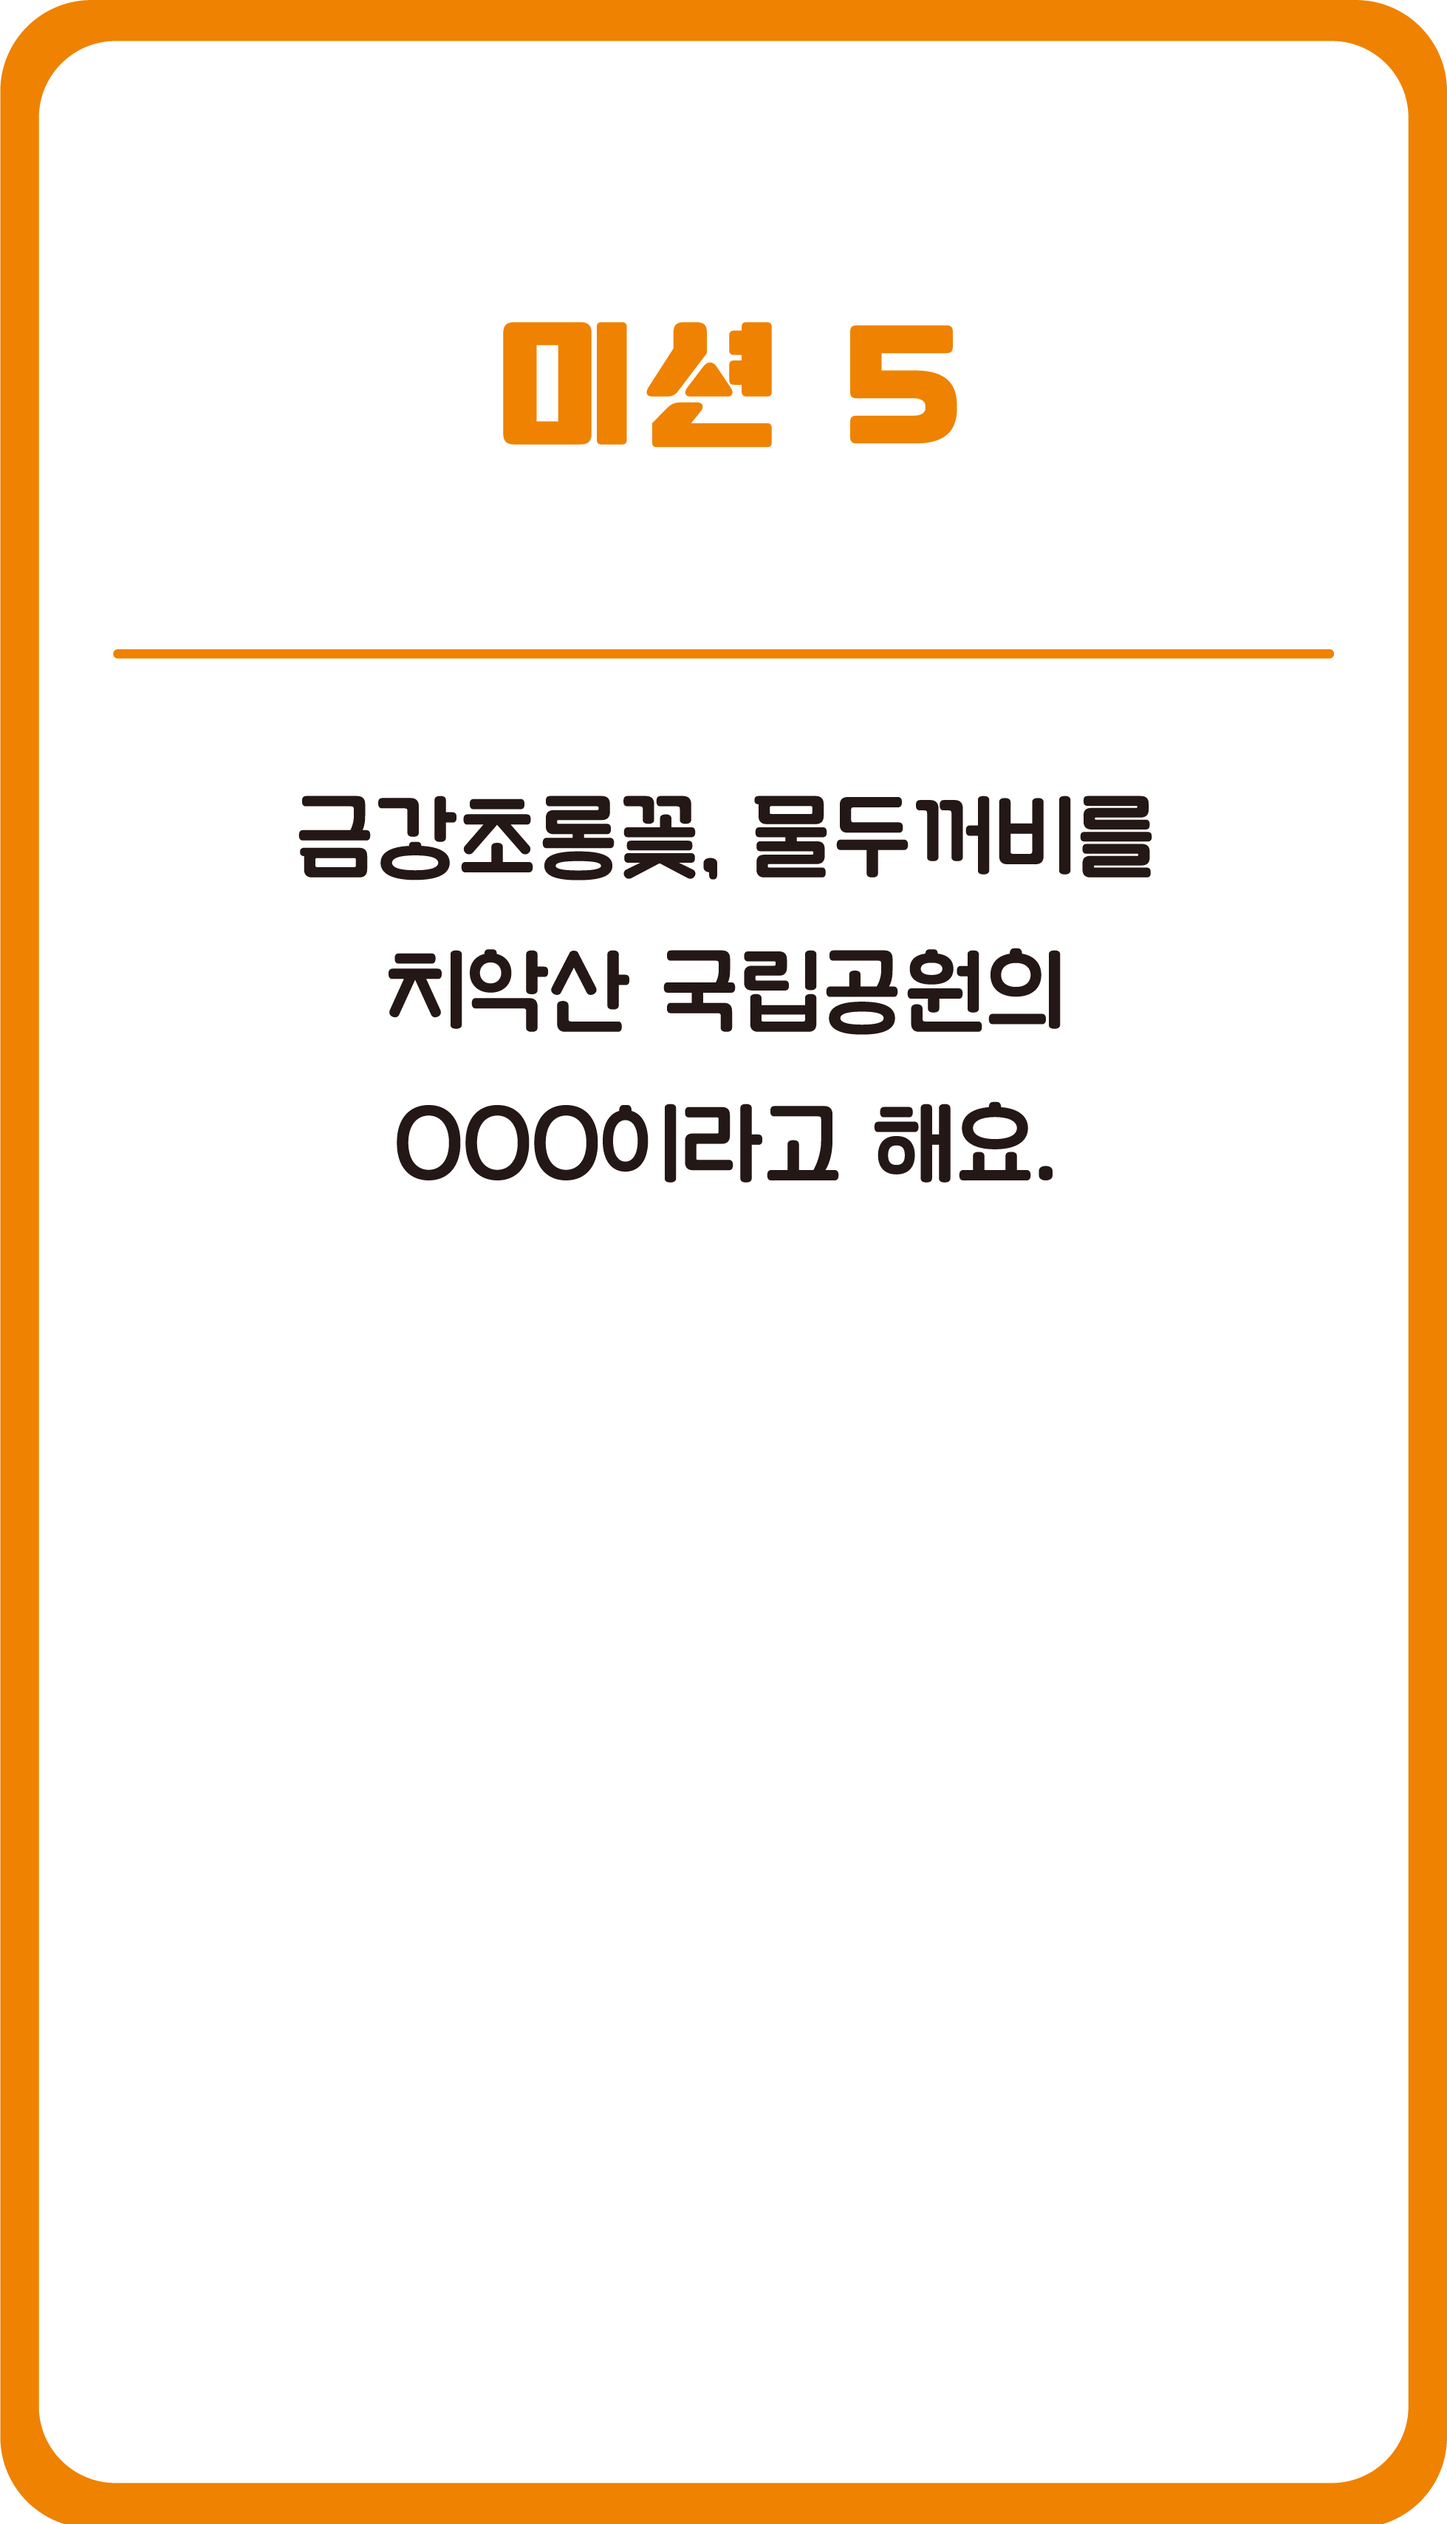
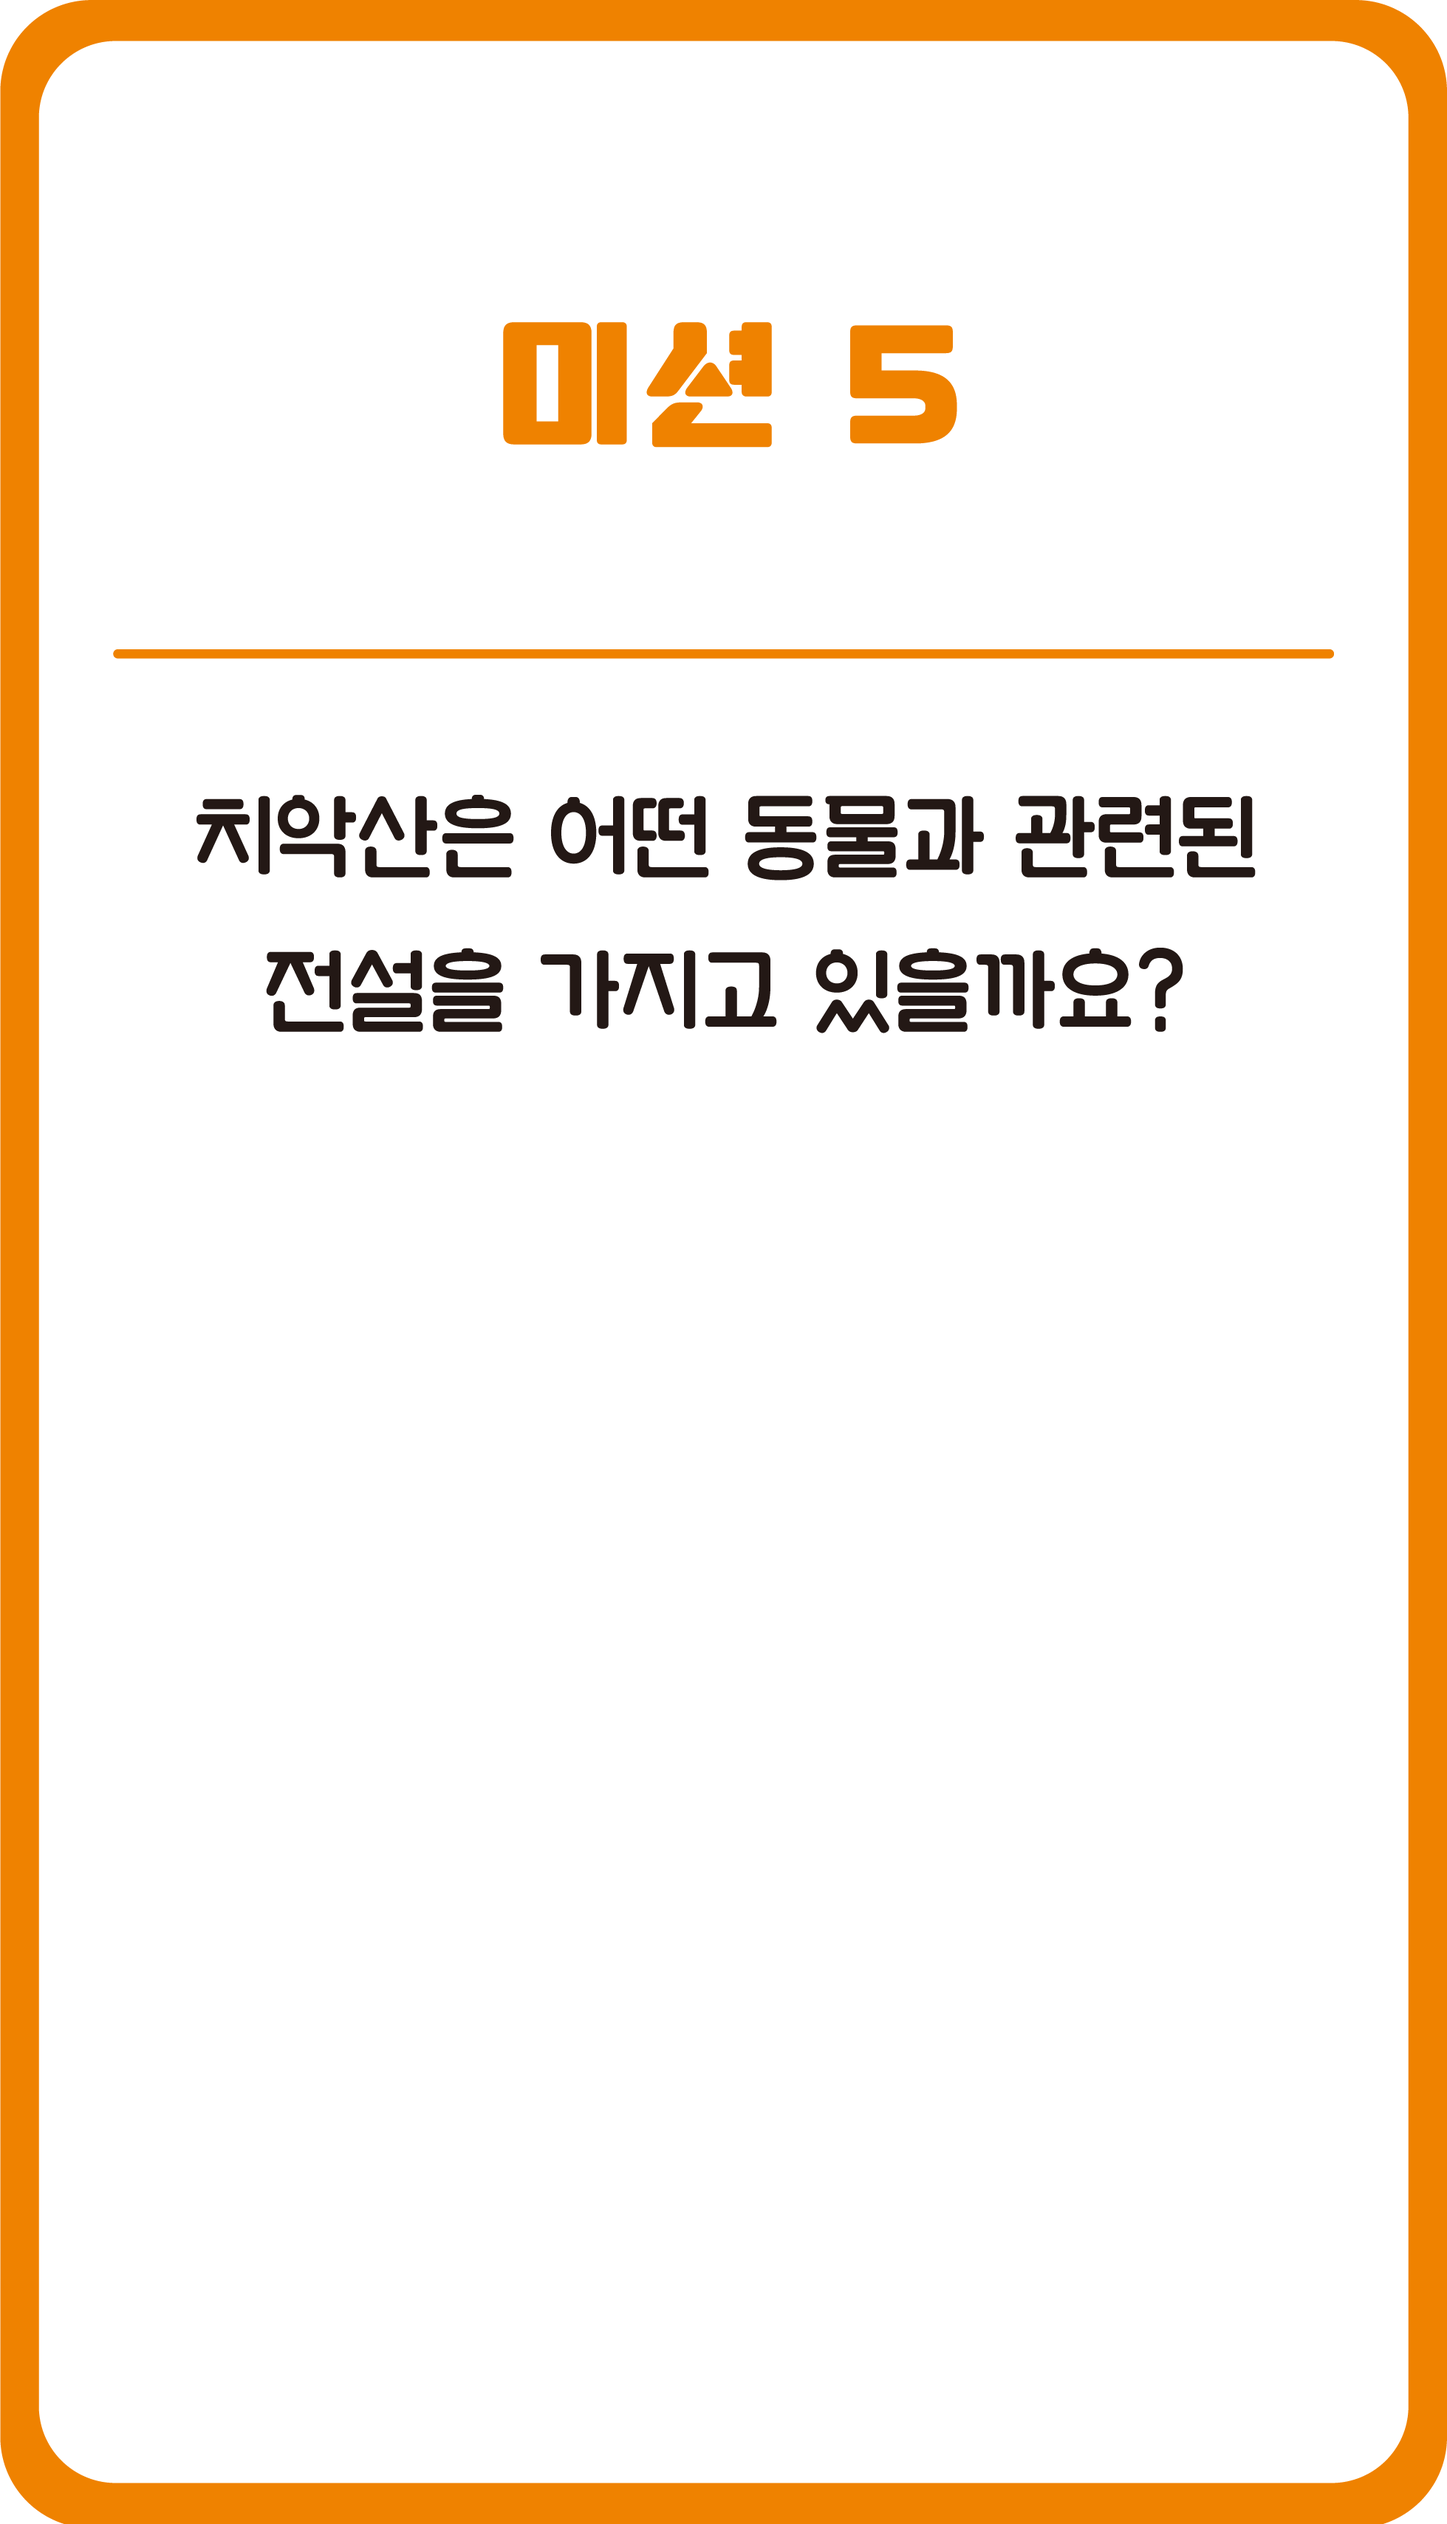
미션 수정_꿩

Changed region(s): [[0.1246, 0.3102, 0.8719, 0.4653]]

diff --git a/front-end/src/components/mission/m8View.vue b/front-end/src/components/mission/m8View.vue
@@ -9,17 +9,33 @@
                 <v-icon size="25">mdi-information-variant-circle</v-icon>
             </button>
             <div class="content-container" justify="center" align="center">
-
-                <v-text-field
-                    label="000은 무엇일까요?"
-                    outlined
-                    class="textarea"
-                    v-model="userResult"
-                    justify="center"
-                    style="width: 80%;"
-                    align-items="center"
-                ></v-text-field>
-                
+                <div>
+                    <v-checkbox
+                        v-model="userResult"
+                        label="반달가슴곰"
+                        color="primary"
+                        value="반달가슴곰"
+                        hide-details
+                        style="color: black; transform: scale(1.5); padding-left: 30%;"
+                    ></v-checkbox>
+                    <v-checkbox
+                        v-model="userResult"
+                        label="비둘기"
+                        color="primary"
+                        value="비둘기"
+                        hide-details
+                        style="color: black; transform: scale(1.5); padding-left: 30%;"
+                    ></v-checkbox>
+                    <v-checkbox
+                        v-model="userResult"
+                        label="꿩"
+                        color="success"
+                        value="꿩"
+                        hide-details
+                        style="color: black; transform: scale(1.5); padding-left: 30%;"
+                    ></v-checkbox>
+                </div>
+                <br>
                 <br>
                 <v-btn class="custom-submit-button mt-3 pl-10 pr-10" color="#EF8200" @click="submitSoundRes">제출하기</v-btn>
             </div>
@@ -29,35 +45,35 @@
                 <v-card-text>
                     <v-row align="center" justify="center">
                         <v-col align="center">
-                            <div style="height:70%; width:70%; display: flex; align-items: center; justify-items: center;">
-                                <v-img v-if="userResult === '깃대종'" src="@/assets/O.png" style="max-height:100%; max-width:100%;"></v-img>
-                                <v-img v-else src="@/assets/X.png" style="max-height:100%; max-width:100%;"></v-img>
+                            <div style="height:100%; width:100%; display: flex; align-items: center; justify-items: center;">
+                                <v-img v-if="userResult === '꿩'" src="@/assets/O.png"></v-img>
+                                <v-img v-else src="@/assets/X.png"></v-img>
                             </div>
                             <br>
-                            <div v-if="userResult === '깃대종'" class="text-center">
+                            <div v-if="userResult === '꿩'" class="text-center">
                                 <h3>정답입니다!</h3> 
                                 <h4>확인 버튼을 눌러주세요.</h4>
                             </div>
                             <div v-else class="text-center">
                                 <h3>다시 한번 풀어볼까요?</h3>
                                 <br>
-                                <p> 초성힌트 : ㄱ ㄷ ㅈ </p>
+                                <p> 은혜갚은 <strong>꿩</strong>의 이야기를 알고있나요? </p>
                             </div>
                         </v-col>
                     </v-row>
                 </v-card-text>
                 <v-card-actions class="card">
-                <v-btn @click="handleDialogConfirmation(userResult === '깃대종')" class="ok-btn mt-3 pl-10 pr-10" color="#EF8200">확인</v-btn>
+                <v-btn @click="handleDialogConfirmation(userResult === '꿩')" class="ok-btn mt-3 pl-10 pr-10" color="#EF8200">확인</v-btn>
                 </v-card-actions>
             </v-card>
         </v-dialog>
 
         <v-dialog v-model="infodialog" class="infodialog">
             <v-card-text class="title">
-                <h3>고쳐야댐</h3>
+                <h3>치악산</h3>
                 <img @click="infodialog = false" src="@/assets/mission/close.png" class="closeinfo">
             </v-card-text>
-                <img src="@/assets/mission/missionInfo/info3.jpeg" class="pic">
+                <img src="@/assets/mission/missionInfo/info3.jpg" class="pic">
         </v-dialog>
 
     </div>
@@ -105,7 +121,7 @@ export default {
             if(this.userResult.trim() == ''){
                 alert("답변을 입력해주세요!")
             } else {
-                if(this.userResult === '깃대종'){
+                if(this.userResult === '꿩'){
                     // 정답 다이얼로그 표시
                     this.dialog = true;
                 } else {
@@ -117,8 +133,8 @@ export default {
         handleDialogConfirmation(correct){
             this.dialog = false;
             if(correct){
-                if (this.result8 === false){
-                    //result8가 false인 경우만 'answerCorrect' 이벤트를 트리거(마커를 정답 이미지로 바꾸기 위하여)
+                if (this.result2 === false){
+                    //result2가 false인 경우만 'answerCorrect' 이벤트를 트리거(마커를 정답 이미지로 바꾸기 위하여)
                     this.$emit('answerCorrect');
                 }
                 this.userResult = ''; // 사용자 응답 리셋
@@ -147,17 +163,17 @@ export default {
         align-items: center;
         justify-content: center;
       }
-    .white-bg{
-    width: 90%; height: 90%;
-    position: fixed; 
-    /* background-color: white; */
-    overflow:hidden;
-    display:flex;
-    flex-direction: column;
-    align-items: center;
-    justify-content: center;
+      .white-bg{
+        width: 90%; height: 90%;
+        position: fixed; 
+        /* background-color: white; */
+        overflow:hidden;
+        display:flex;
+        flex-direction: column;
+        align-items: center;
+        justify-content: center;
 
-    }
+      }
     .background{
         width: 100%;
         height: 100%;
@@ -165,7 +181,7 @@ export default {
     .content-container{
         width:100%;
         position: absolute;
-        bottom: 7%;
+        bottom: 12%;
     }
     .close{
         width: 22px;
@@ -176,18 +192,18 @@ export default {
         position:absolute;
         top: 3%;
         right: 5%;
-    
+
     }
     .textarea{
         justify-content: center;
-    }
-    .card {
-    justify-content: center; /* 내부 요소를 중앙 정렬 */
     }
     .custom-submit-button {
         color: white !important; /* 텍스트 색상을 흰색으로 */
         font-weight: bold; /* 글씨 두께를 굵게 */
         font-size: 18px; /* 글씨 크기를 18px로 설정 */
+    }
+    .card {
+    justify-content: center; /* 내부 요소를 중앙 정렬 */
     }
     .ok-btn{
         color: white !important; 
@@ -235,5 +251,4 @@ export default {
         ::v-deep .v-dialog { /* 지우면 안됨 */
         box-shadow: none !important;
     }
-
 </style>

diff --git a/front-end/src/components/NaviView/AIView.vue b/front-end/src/components/NaviView/AIView.vue
@@ -82,7 +82,7 @@
                                     <img :src="require('@/assets/AIView/koreaPaint.png')" width="60%" class="mb-5"><!--예시 사진-->
                                     <br>
                                 </div>
-                                <v-btn @click="transformImg(1)" color="#EF8200"> 한국화로 그리기 </v-btn>
+                                <v-btn @click="transformImg(1)" color="#EF8200" class="white--text"> 한국화로 그리기 </v-btn>
                             </v-carousel-item>
                             <v-carousel-item justify="center" align="center">
                                 <div class="font-kkomi">
@@ -95,7 +95,7 @@
                                     <img :src="require('@/assets/AIView/cartoon.jpg')" width="80%" class="mb-5"><!--예시 사진-->
                                     <br>
                                 </div>
-                                <v-btn @click="transformImg(2)" color="#EF8200"> 만화로 그리기 </v-btn>
+                                <v-btn @click="transformImg(2)" color="#EF8200" class="white--text"> 만화로 그리기 </v-btn>
                             </v-carousel-item>
                             <v-carousel-item justify="center" align="center">
                                 <div class="font-kkomi">
@@ -108,7 +108,7 @@
                                     <img :src="require('@/assets/AIView/koreaPaint.png')" width="60%" class="mb-5"> <!--예시 사진-->
                                     <br>
                                 </div>
-                                <v-btn @click="transformImg(3)" color="#EF8200"> 캐릭터로 그리기 </v-btn>
+                                <v-btn @click="transformImg(3)" color="#EF8200" class="white--text"> 캐릭터로 그리기 </v-btn>
                             </v-carousel-item>
                         </v-carousel>
                     </div>
@@ -132,7 +132,7 @@ export default {
             preimage: null,
             istranslated: false, // false로 바꿔야 함
             response: null,
-            paintC : false, // 화풍 선택 팝업창 열고 닫기 / false로 바꿔야
+            paintC : true, // 화풍 선택 팝업창 열고 닫기 / false로 바꿔야
             contentIndex: 0,
             contents: ['/watertoad/030.png', '/watertoad/031.png', '/watertoad/032.png', '/watertoad/따봉꺼비.png'],
             gallery: false,
